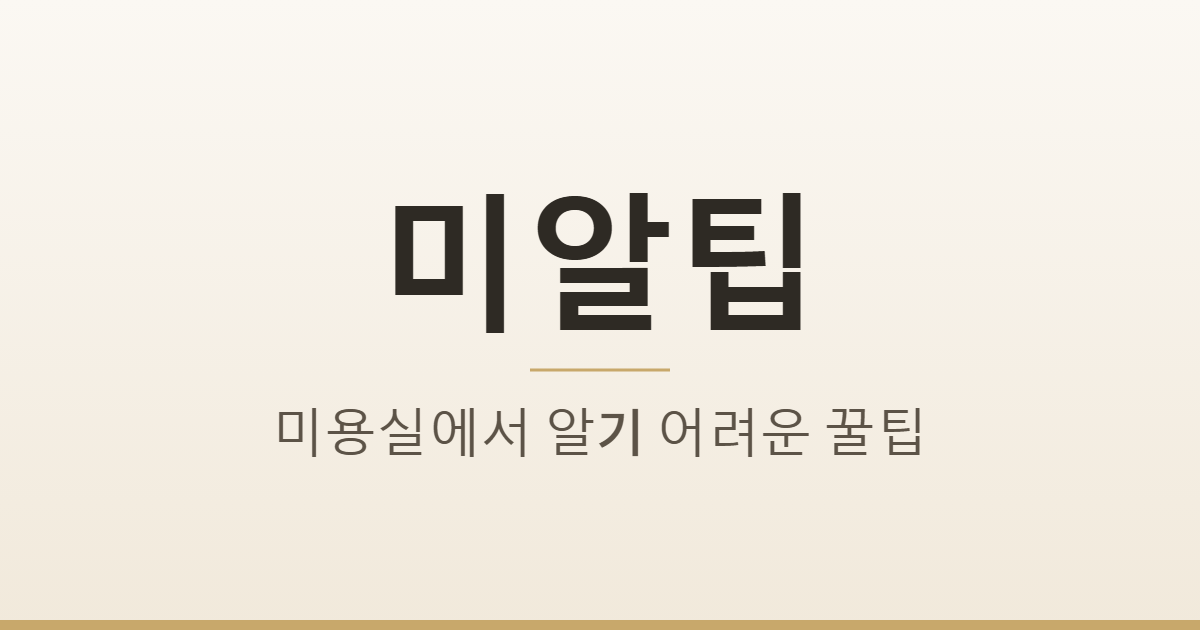
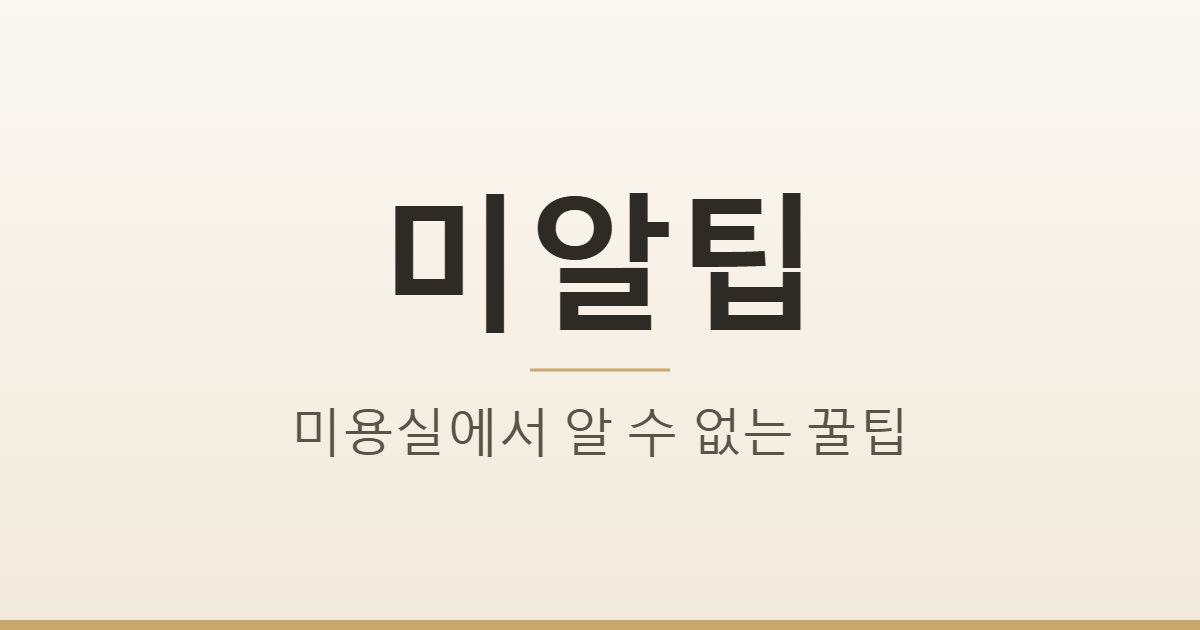
fix(brand): 태그라인 "알기 어려운"→"알 수 없는" 전면 반영 (D)
사업주 확정 문구 변경. 태그라인이 들어간 전 지점 동일 교체.
서비스명 미알팁·로마자 MIALTIP 불변.

- app/layout.tsx: 루트 title·description·OG title·twitter title (4곳)
- lib/brand.ts: tagline 상수 (미연결 유지)
- public/og-default.png: OG 카드 태그라인만 교체(디자인 나머지 그대로, 재렌더)

Codex 검수: 태그라인 문자열만 교체·로직/서비스명/식별자 무변경·따옴표 무손상 통과.

Changed region(s): [[0.2158, 0.6333, 0.7708, 0.7238]]

diff --git a/app/layout.tsx b/app/layout.tsx
@@ -33,7 +33,7 @@ export const viewport: Viewport = {
 
 const SITE_NAME = "미알팁";
 const SITE_DESCRIPTION =
-  "AI로 내 모발 타입을 진단하고, 타입에 맞는 헤어 발견템을 추천받는 퍼스널 헤어 커머스. 미알팁 — 미용실에서 알기 어려운 꿀팁.";
+  "AI로 내 모발 타입을 진단하고, 타입에 맞는 헤어 발견템을 추천받는 퍼스널 헤어 커머스. 미알팁 — 미용실에서 알 수 없는 꿀팁.";
 
 export const metadata: Metadata = {
   // 소셜 미리보기 이미지 절대 URL 해석 기준 — 배포 도메인으로 교체
@@ -42,7 +42,7 @@ export const metadata: Metadata = {
   ),
   // title 미설정 페이지의 기본값. 각 랜딩 layout이 자체 title(접미사 포함)을
   // 이미 지정하므로 template은 두지 않는다(이중 접미사 방지).
-  title: "미알팁 — 미용실에서 알기 어려운 꿀팁",
+  title: "미알팁 — 미용실에서 알 수 없는 꿀팁",
   description: SITE_DESCRIPTION,
   applicationName: SITE_NAME,
   keywords: ["헤어 진단", "AI 헤어", "모발 타입", "헤어 MBTI", "헤어스타일 추천", "미알팁", "MIALTIP"],
@@ -50,7 +50,7 @@ export const metadata: Metadata = {
     type: "website",
     siteName: SITE_NAME,
     locale: "ko_KR",
-    title: "미알팁 — 미용실에서 알기 어려운 꿀팁",
+    title: "미알팁 — 미용실에서 알 수 없는 꿀팁",
     description: SITE_DESCRIPTION,
     // ⚠ 플레이스홀더 — public/og-default.png(1200×630)를 디자인 확정 후 추가/교체.
     //    (자체 OG 이미지를 가진 랜딩 layout은 각자 값으로 이 기본값을 덮어씀)
@@ -58,7 +58,7 @@ export const metadata: Metadata = {
   },
   twitter: {
     card: "summary_large_image",
-    title: "미알팁 — 미용실에서 알기 어려운 꿀팁",
+    title: "미알팁 — 미용실에서 알 수 없는 꿀팁",
     description: SITE_DESCRIPTION,
     images: ["/og-default.png"],
   },

diff --git a/lib/brand.ts b/lib/brand.ts
@@ -19,7 +19,7 @@ export const BRAND = {
   /** 병기 표기(문서/타이틀용) */
   full: "미알팁",
   /** 한 줄 소개(태그라인) */
-  tagline: "미용실에서 알기 어려운 꿀팁",
+  tagline: "미용실에서 알 수 없는 꿀팁",
 } as const;
 
 /** "{서비스명}에 로그인" — 카카오 로그인 버튼/모달 카피용 파생 문구 */
